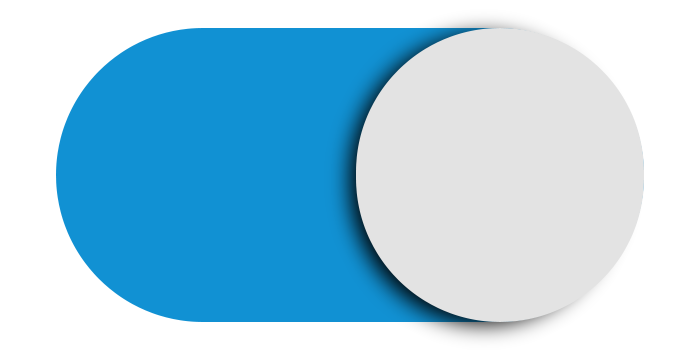
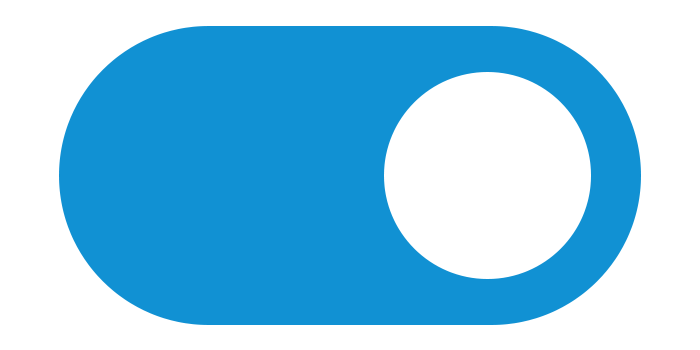
重绘箭头与开关图片 修复了应用在深色模式下显示异常 换课列表添加星期六与星期日 优化无用代码 优化了一些编译警告

diff --git a/src/MainTableWidget/MainTableWidget.cpp b/src/MainTableWidget/MainTableWidget.cpp
@@ -1,7 +1,5 @@
 #include "./MainTableWidget.h"
 #include "ui_MainTableWidget.h"
-
-#include "../API.h"
 #include "../Utils/Utils.h"
 
 void asyncSleep(unsigned int msec)
@@ -18,13 +16,14 @@ MainTableWidget::MainTableWidget(QWidget *parent)
 {
     ui->setupUi(this);
     editWindow = new TableEditWidget();
+    refetchThread = new RefetchTableThread();
     readConfig();
     readTimeTable();
     
     editWindow->setConfig(config);
 
     initUi();
-    refetchThread = new RefetchTableThread();
+
     topTimer = new QTimer();
 
 #ifdef WIN32
@@ -222,19 +221,20 @@ void MainTableWidget::initSignal(){
 
 }
 void MainTableWidget::readTimeTable(){
-    auto result = readJsonFile(TABLE_JSON);
+    auto result = readJsonFile(QDir::homePath() + "/ClassTopLand_Data" + "/tables.json");
     if (!result) return;
     timeTable = *result;
     initTodayTable();
 }
 void MainTableWidget::readConfig(){
-    auto result = readJsonFile(CONFIG_JSON);
+    auto result = readJsonFile(QDir::homePath() + "/ClassTopLand_Data" + "/config.json");
     if (!result) return;
     config = *result;
 }
 void MainTableWidget::initTodayTable(){
     QDateTime currentDateTime = QDateTime::currentDateTime();
     todayTable = timeTable.value(currentDateTime.toString("ddd")).toArray();
+    refetchThread->setTodayTable(todayTable);
     resize(SIDEBAR_WIDTH + BLOCK_SPACING + todayTable.count() * CLASS_BLOCK_SIZE,height());
     ui->stackedWidget->resize(SIDEBAR_WIDTH + BLOCK_SPACING + todayTable.count() * CLASS_BLOCK_SIZE,height());
     ui->status_show->resize(SIDEBAR_WIDTH + BLOCK_SPACING + todayTable.count() * CLASS_BLOCK_SIZE,height());
@@ -245,7 +245,6 @@ void RefetchTableThread::run(){
     {
         emit changeStackedIndex(0);
     }
-    qDebug()<<todayTable;
     for (int i=0;i<todayTable.count();i++)
     {
         emit addClass(QString(todayTable[i].toObject()["name"].toString().at(0)));
@@ -345,13 +344,15 @@ QDateTime RefetchTableThread::getTodayTime(QString str){
 
 void MainTableWidget::huanKeSlot(){
     QStringList items;
-    items << "星期一" << "星期二" << "星期三" << "星期四" << "星期五";
+    items << "星期一" << "星期二" << "星期三" << "星期四" << "星期五" << "星期六" << "星期日";
     QMap<QString,QString> enCnDay;
     enCnDay["星期一"] = "Mon";
     enCnDay["星期二"] = "Tue";
     enCnDay["星期三"] = "Wed";
     enCnDay["星期四"] = "Thu";
     enCnDay["星期五"] = "Fri";
+    enCnDay["星期六"] = "Sat";
+    enCnDay["星期日"] = "Sun";
     auto result = readJsonFile(QDir::homePath() + "/ClassTopLand_Data" + "/tables.json");
     if (!result) return;
     QJsonObject appendixTables = (*result)["appendixTables"].toObject();
@@ -376,6 +377,7 @@ void MainTableWidget::huanKeSlot(){
     {
         delete widget;
     }
+    refetchThread->setTodayTable(todayTable);
     refetchThread->start();
     resize(SIDEBAR_WIDTH + BLOCK_SPACING + todayTable.count() * CLASS_BLOCK_SIZE,height());
     ui->stackedWidget->resize(SIDEBAR_WIDTH + BLOCK_SPACING + todayTable.count() * CLASS_BLOCK_SIZE,height());
@@ -450,10 +452,6 @@ void MainTableWidget::refetchTableSlot(){
     resize(SIDEBAR_WIDTH + BLOCK_SPACING + todayTable.count() * CLASS_BLOCK_SIZE,height());
     ui->stackedWidget->resize(SIDEBAR_WIDTH + BLOCK_SPACING + todayTable.count() * CLASS_BLOCK_SIZE,height());
     ui->status_show->resize(SIDEBAR_WIDTH + BLOCK_SPACING + todayTable.count() * CLASS_BLOCK_SIZE,height());
-    // QScreen *scr = qApp->primaryScreen();
-    // int screenW = screen->size().width();
-    // int screenH = screen->size().height();
-    // move((screenW - width()) / 2, 0);
     if (windowHidden) on_hideWindow();
     sysTrayIcon->showMessage(tr("提示"),tr("配置已成功应用！"),QSystemTrayIcon::MessageIcon::Information,500);
 }

diff --git a/src/TableEditWidget/TableEditWidget.cpp b/src/TableEditWidget/TableEditWidget.cpp
@@ -174,6 +174,11 @@ void TableEditWidget::toggleded(){
     }
 }
 void TableEditWidget::addItem(QString key){
+    if (ui->lineEdit->text() == "")
+    {
+        QMessageBox::critical(this,"错误","请输入课程名称");
+        return;
+    }
     QJsonObject insertJson;
     insertJson.insert("name",ui->lineEdit->text());
     insertJson.insert("start",ui->timeEdit->text());
@@ -185,28 +190,14 @@ void TableEditWidget::addItem(QString key){
         editArray = timeTableJson[key].toArray();
     }
     editArray.append(insertJson);
-
-    // for (int x = 0;x<editArray.count()-1;x++){
-    //     for (int y = x+1;y<editArray.count();y++){
-    //         if (QTime::fromString(editArray[y].toObject().value("start").toString()) < QTime::fromString(editArray[x].toObject().value("start").toString())){
-    //             min_index = y;
-    //         }
-    //     }
-    //     QJsonObject max_Object = editArray[x].toObject();
-    //     editArray[x] = editArray[min_index];
-    //     editArray[min_index] = max_Object;
-    // }
-
-    for (int i = 0; i < editArray.count() - 1; i++) {	// 操作i至len-1个数据（剩下最后一个不需要操作）
+    for (int i = 0; i < editArray.count() - 1; i++) {
         int index = i;	// 赋初值给索引
-        for (int j = i + 1; j < editArray.count(); j++) {	// 比较剩余未排序的数据
+        for (int j = i + 1; j < editArray.count(); j++) {
             if (getTodayTime(editArray[j].toObject().value("start").toString()) < getTodayTime(editArray[index].toObject().value("start").toString())) {	// 当剩余的数据有比索引对应的数小时，更新索引
                 index = j;
             }
         }
-        // 当索引不等于初值时
         if (index != i) {
-            // 交换数据
             QJsonObject temp = editArray[index].toObject();
             editArray[index] = editArray[i];
             editArray[i] = temp;

diff --git a/src/FluentTabWidget/FluentTabWidget.cpp b/src/FluentTabWidget/FluentTabWidget.cpp
@@ -60,16 +60,10 @@ void FluentTabBar::paintEvent(QPaintEvent *event)
         bool selected = (i == currentIndex());
         bool hover = (hoverIndex == i);
 
-        // 绘制背景
         if (selected) {
-            //painter.save();
             painter.setPen(Qt::NoPen);
-            painter.setBrush(QColor(17, 145, 211)); // 蓝色边框颜色
-            painter.drawRoundedRect(rect.left()+2, rect.top()+7, 4, rect.height()-11,3,3); // 左侧边框宽度为 4px
-            //painter.restore();
-            // painter.setBrush(QColor(17, 145, 211));
-            // painter.setPen(Qt::NoPen);
-            // painter.drawRoundedRect(rect.adjusted(2, 2, -2, -2), 1, 1);
+            painter.setBrush(QColor(17, 145, 211));
+            painter.drawRoundedRect(rect.left()+2, rect.top()+7, 4, rect.height()-11,3,3);
         } else if (hover) {
             painter.setBrush(QColor(220, 220, 220));
             painter.setPen(Qt::NoPen);
@@ -77,9 +71,7 @@ void FluentTabBar::paintEvent(QPaintEvent *event)
         }
 
         QRect textRect = rect;
-        textRect.setLeft(rect.left() + 15); // 左边留出一点边距
-
-        // 绘制左对齐文本
+        textRect.setLeft(rect.left() + 15);
         painter.setPen(Qt::black);
         painter.drawText(textRect, Qt::AlignLeft | Qt::AlignVCenter, text);
     }
@@ -88,19 +80,14 @@ void FluentTabBar::paintEvent(QPaintEvent *event)
 QSize FluentTabBar::tabSizeHint(int index) const
 {
     Q_UNUSED(index);
-    return QSize(130, 35); // 固定每个 Tab 的大小
+    return QSize(130, 35);
 }
 
 FluentTabWidget::FluentTabWidget(QWidget *parent)
     : QTabWidget(parent)
 {
-    // 设置自定义 TabBar
     setTabBar(new FluentTabBar(this));
-
-    // 设置 TabBar 在左侧
     setTabPosition(QTabWidget::West);
-
-    // 设置样式（Fluent 风格）
     setStyleSheet(R"(
         QTabWidget::pane {
             border: 1px solid #dcdcdc;

diff --git a/src/ExportAPISettingsTab/ExportAPISettingsTab.cpp b/src/ExportAPISettingsTab/ExportAPISettingsTab.cpp
@@ -21,7 +21,7 @@ void ExportAPISettingsTab::initAPIList() {
 	}
 	apiListReq = new NetworkRequests(GET,CloudAPIUrl::GET_EXAPI_LIST);
 	apiListReq->start();
-	connect(apiListReq, &NetworkRequests::finished, this, [=](QJsonObject json, QString replyString, QString errorString) {
+	connect(apiListReq, &NetworkRequests::finished, this, [this](QJsonObject json, QString replyString, QString errorString) {
 		if (!errorString.isEmpty())
 		{
 			QMessageBox::critical(this, "错误", "请求失败！");
@@ -56,7 +56,7 @@ void ExportAPISettingsTab::SyncExAPITable() {
         {"username",ui->APIUser->text()},
         {"password",ui->APIPwd->text()}
     });
-    connect(exApiTokenReq, &NetworkRequests::finished, this, [=](QJsonObject json, QString replyString, QString errorString) { 
+    connect(exApiTokenReq, &NetworkRequests::finished, this, [this,apiId](QJsonObject json, QString replyString, QString errorString) {
         if (!errorString.isEmpty())
         {
             QMessageBox::critical(this, "错误", "请求失败！");
@@ -70,7 +70,8 @@ void ExportAPISettingsTab::SyncExAPITable() {
         exApiTableReq->start(QJsonObject{
             {"token",token}
         });
-		connect(exApiTableReq, &NetworkRequests::finished, this, [=](QJsonObject json, QString replyString, QString errorString) {
+		connect(exApiTableReq, &NetworkRequests::finished, this, [this](QJsonObject json, QString replyString, QString errorString) {
+			Q_UNUSED(json);
 			if (!errorString.isEmpty())
 			{
 				QMessageBox::critical(this, "错误", "请求失败！");

diff --git a/src/MainTableWidget/MainTableWidget.h b/src/MainTableWidget/MainTableWidget.h
@@ -52,13 +52,14 @@ public:
         QFont ft("Microsoft YaHei UI",18);// 获取当前字体的格式，里面有文本大小和文本像素大小
         QFontMetrics fm(ft); // 以当前的字体格式为基础
         int textWidthPixel = fm.horizontalAdvance(text); //以当前的字体格式为基础,计算字体的像素宽度
-        qDebug() << "textWidthPixel:" << textWidthPixel << "getWidth():" << getWidth() << "getWidth() - 60:" << getWidth() - 60;
         if (textWidthPixel > emit getWidth() - 60) {
             return false;
         }
-        else {
-            return true;
-        }
+        return true;
+    }
+    void setTodayTable(QJsonArray today_table)
+    {
+        todayTable = today_table;
     }
     bool stopFlag = false;
 signals:
@@ -75,7 +76,7 @@ signals:
     void windowTop();
     int getWidth();
 private:
-    bool isProcessRunning(QString& processName);
+    QJsonArray todayTable;
 };
 class MainTableWidget : public QWidget
 {
@@ -139,6 +140,8 @@ private:
     qint64 secTime = 0;
     QTimer* topTimer;
     bool isFinished = false;
+    QJsonObject timeTable;
+    QJsonArray todayTable;
 
     static constexpr int SIDEBAR_WIDTH = 154;
     static constexpr int CLASS_BLOCK_SIZE = 49;

diff --git a/main.cpp b/main.cpp
@@ -1,6 +1,7 @@
 #include "./src/MainTableWidget/MainTableWidget.h"
 #include"./src/DayTimerWidget/DayTimerWidget.h"
 #include <QApplication>
+#include <QStyleHints>
 #include <QLocale>
 #include <QTranslator>
 #include<QDir>
@@ -9,9 +10,7 @@
 #include<QFontDatabase>
 #include<QStyleFactory>
 #include <iostream>
-#if defined(_MSC_VER) && (_MSC_VER >= 1600)    
-# pragma execution_character_set("utf-8")    
-#endif
+
 
 #include"./src/AppLog/AppLog.h"
 #include"./src/NetworkRequests/NetworkRequests.h"
@@ -67,6 +66,7 @@ int main(int argc, char *argv[])
     QApplication a(newArgc, newArgv);
 #else
     QApplication a(argc, argv);
+    QGuiApplication::styleHints()->setColorScheme(Qt::ColorScheme::Light);
 #endif
     //QApplication::setAttribute(Qt::AA_SetPlatformPlugin, QVariant("xcb"));
     printLogo();

diff --git a/src/CloudAPI.h b/src/CloudAPI.h
@@ -4,15 +4,5 @@
 namespace CloudAPIUrl {
 	static QUrl MASTER = QUrl("https://ctpserver.aero8m.cn");
 	static QString MASTER_STRING = "https://ctpserver.aero8m.cn";
-	// user api
-	static QUrl REGISTER = QUrl(MASTER_STRING + "/register");
-    static QUrl GET_TOKEN = QUrl(MASTER_STRING + "/get_token");
-	static QUrl ISTOKEN = QUrl(MASTER_STRING + "/is_true_token");
-	static QUrl GET_USERINFO = QUrl(MASTER_STRING + "/get_userinfo");
-	// class mange api
-    static QUrl GET_CLASS_LIST = QUrl(MASTER_STRING + "/get_class");
-    static QUrl GET_CLASS_INFO = QUrl(MASTER_STRING + "/get_class_info");
-    static QUrl ADD_CLASS = QUrl(MASTER_STRING + "/add_class");
-    static QUrl DELETE_CLASS = QUrl(MASTER_STRING + "/delete_class");
 	static QUrl GET_EXAPI_LIST = QUrl(MASTER_STRING + "/exapi/list");
 };

diff --git a/src/AppendixTableManager/AppendixTableManager.cpp b/src/AppendixTableManager/AppendixTableManager.cpp
@@ -44,7 +44,6 @@ void AppendixTableManager::addAppendTables() {
     dialog.setCancelButtonText(QObject::tr("取消"));
     dialog.setFixedSize(350,250);
     dialog.setTextValue("");
-    // 设置了 QPushButtuon 的三态， QLineEdit 的样式， QLable 和 整体的背景色
     QString style = "QPushButton{background:#1191d3; color:rgb(255,255,255); border-radius:3px; min-height:30px; min-width:60px; font:13px \"Microsoft YaHei\";}"
                     "QPushButton:hover{background:#1191d0;}"
                     "QPushButton:pressed{background:rgb(32,75,148);}"

diff --git a/README.md b/README.md
@@ -5,8 +5,6 @@
   <h1 align="center">
   ClassTopLand
 </h1>
-<h3 style="text-align: center">注意：新发行版采用自动构建，请前往 安装 部分的链接下载！</h3>
-
 <p align="center">
   基于Qt6 Widgets的校园桌面课程显示组件
 </p>
@@ -38,10 +36,7 @@
 
 
 ## 安装
-1. 下载<a href="https://autobuild.aero8m.cn/ClassTopLand">https://autobuild.aero8m.cn/ClassTopLand</a>内的安装包，根据安装包提示进行安装。
-> **提示**<br/>
-> 最上面的安装包通常是最新版本，列表按时间倒序排序！
-
+1. 前往[Github Releases](https://github.com/Aero8m/ClassTopLand/releases)下载最新版本安装包，按照提示安装。 如果网络环境不佳，也可以前往[Aero8m AutoBuild](https://autobuild.aero8m.cn/ClassTopLand)下载
 2. 打开程序后根据提示进行设置。
 3. 开始使用。
 > **注意**
